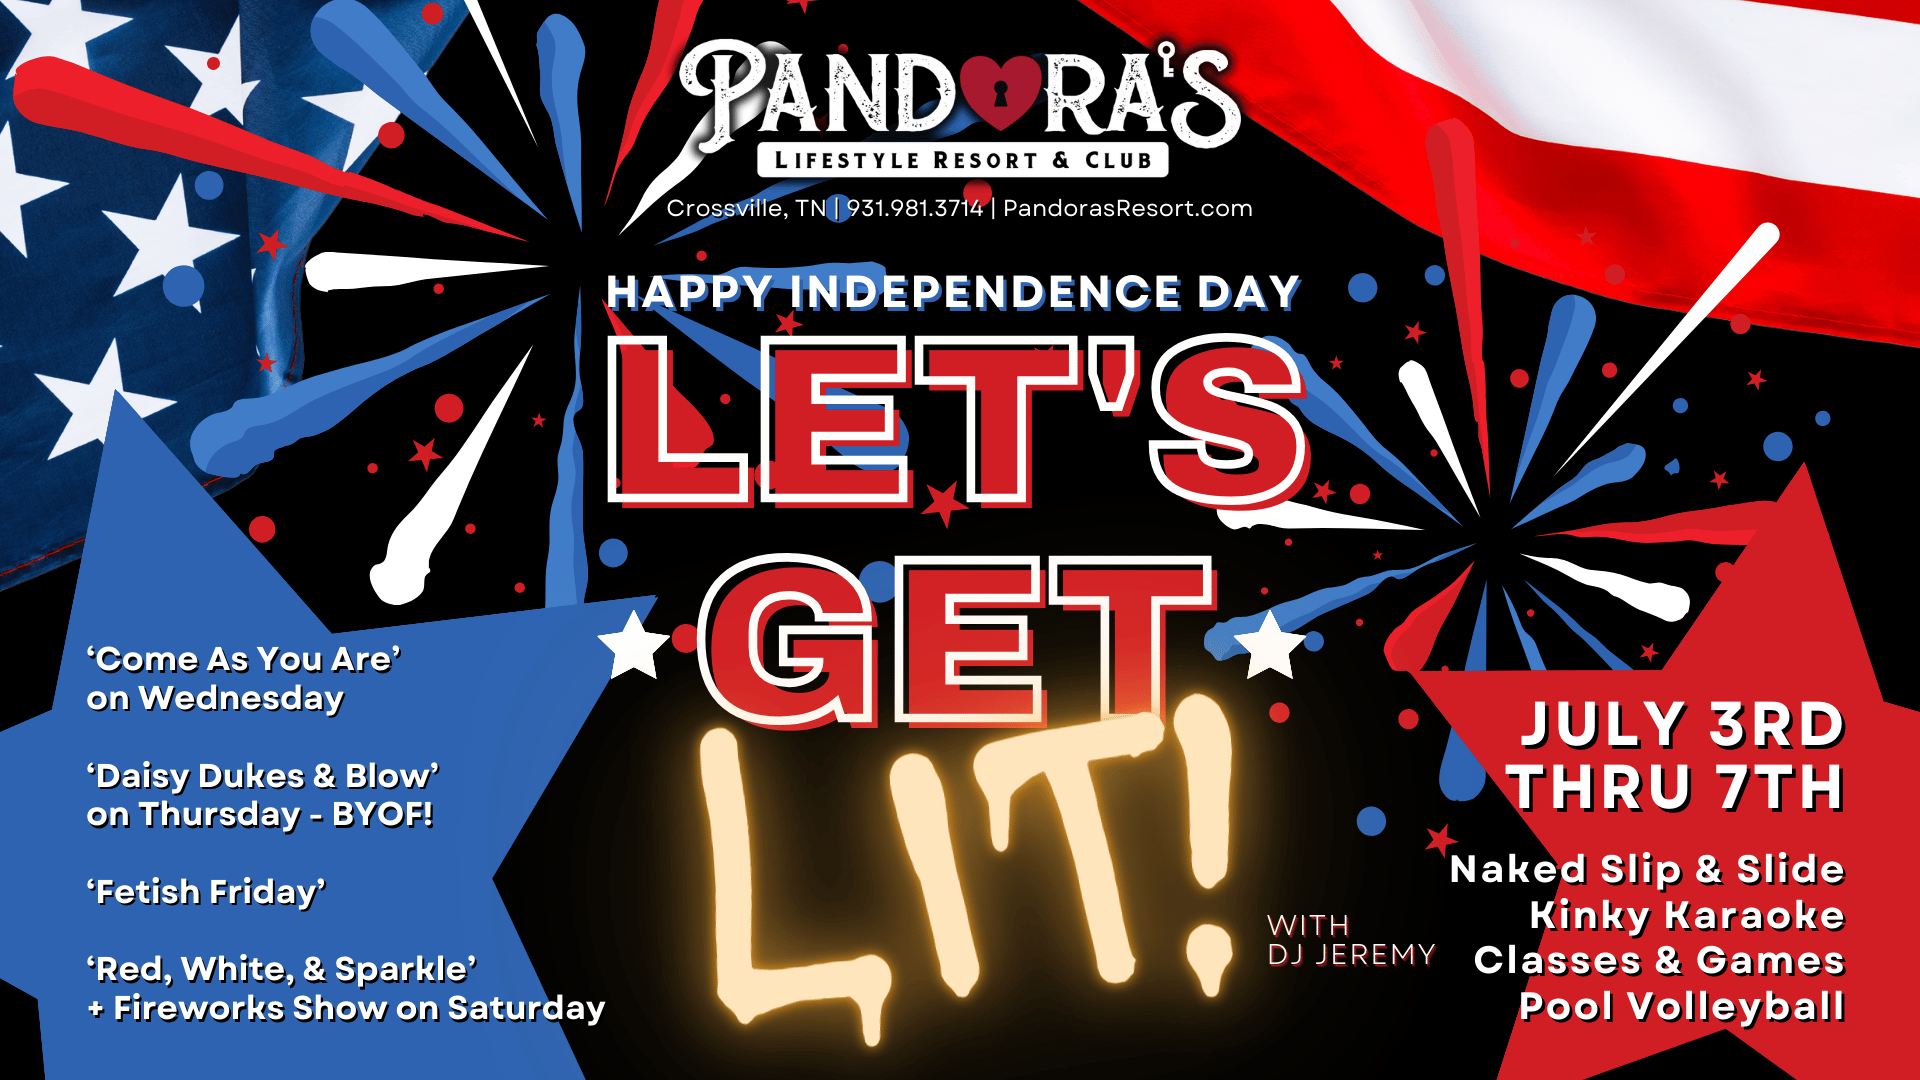
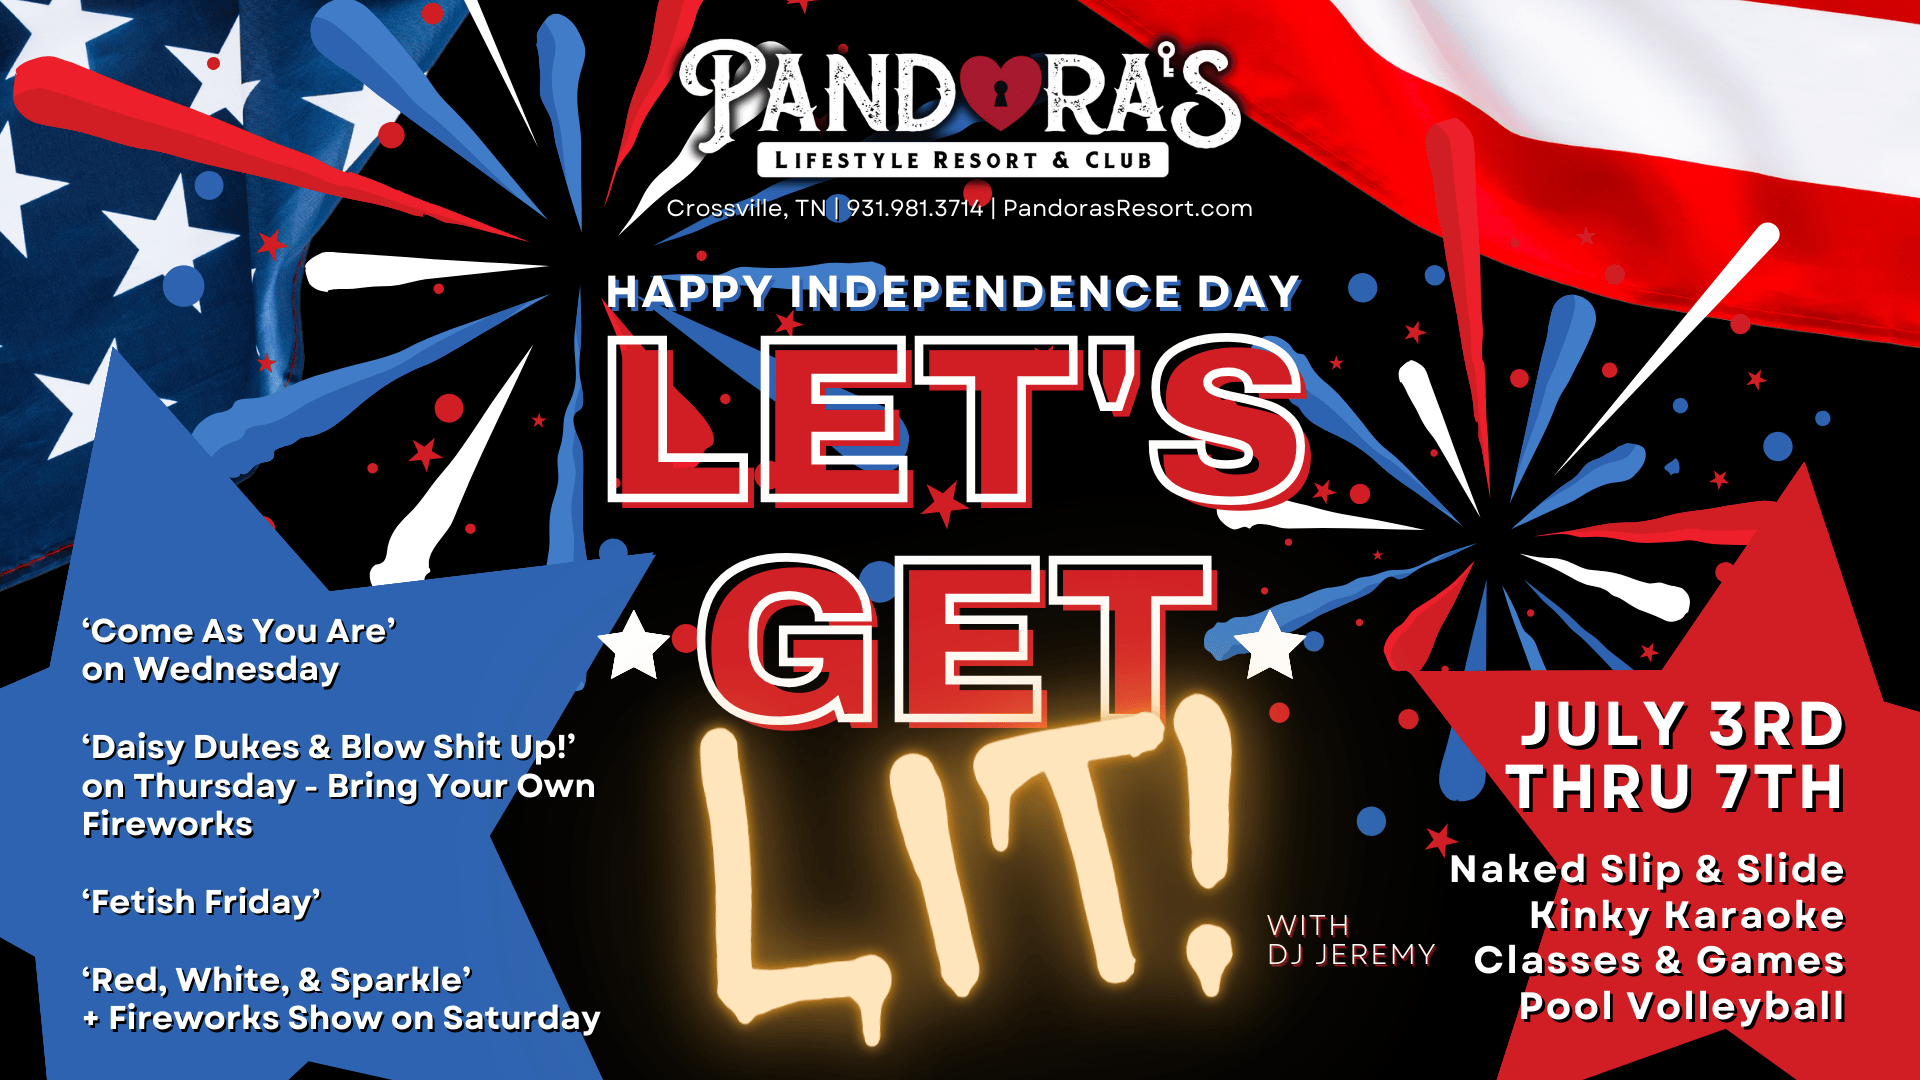
updated flyers

Changed region(s): [[0.0, 0.3361, 0.3438, 0.8861], [0.0, 0.8556, 0.3125, 1.0]]

diff --git a/index.html b/index.html
@@ -299,7 +299,7 @@
             3 Day Special&nbsp;&nbsp;&bull;&nbsp;&nbsp;Mon thru Wed Cabin & Daily Membership for $300!
             </pre>
          </div>
-         <link-button slot="footer" href="tel:931-981-3714">Reservations</link-button>
+         <link-button slot="footer" href="tel:931-981-3714">Call for Reservations</link-button>
       </bright-card>
    </bright-section>
 
@@ -307,7 +307,7 @@
       <div>
          <h2>Recurring Weekly Events</h2>
          <pre>
-            <b>Wednesdays</b> - Newbie Night (1/2 price day fee)
+            <b>Thursdays</b> -  Thursty Thursday - Newbie Night (1/2 price day fee)
             <b>Fridays</b> - 8pm Themed Dance Party
             <b>Saturdays</b> - 8pm Themed Dance Party, 9pm BDSM Demo
             &nbsp;
@@ -318,11 +318,15 @@
    <bright-section id="events">
       <h2>Upcoming Events at Pandora's Resort</h2>
       <bright-gallery-scroller item-width="380px" gap="8px">
-         <img src="/images/flyers/Little Black Dress (Presentation).png"/>
-         <img src="/images/flyers/20240622 Mermaids and Pirates (Presentation).png"/>
          <img src="/images/flyers/20240628 Blue Jean Baby Friday Night (Presentation).png"/>
          <img src="/images/flyers/20240629 50s Summer Lovin’ (Presentation).png"/>
          <img src="/images/flyers/20240704 Fourth of July Weekend Let's Get Lit (Presentation).png"/>
+         <img src="/images/flyers/20240705 Karaoke (Presentation).png"/>
+         <img src="/images/flyers/20240705 Fetish Friday (Presentation).png"/>
+         <img src="/images/flyers/20240706 Swing School Classes (Presentation).png"/>
+         <img src="/images/flyers/20240712 Friday Lovely Lingerie (Presentation).png"/>
+         <img src="/images/flyers/20240713 Nothin’ But Net (Presentation).png"/>
+         <img src="/images/flyers/Thirsty Thursdays (Presentation).png"/>
          <img src="/images/flyers/BDSM with King Dave.png"/>
          <img src="/images/flyers/BoudiorPhotography.png"/>
       </bright-gallery-scroller>
@@ -332,15 +336,12 @@
       <div>
          <h2>Upcoming Weekend Themes</h2>
          <pre>
-            <b>Fri June 21</b> - Little Black Dress
-            <b>Sat June 22</b> - Mermaids and Pirates
-
             <b>Fri June 28</b> - Blue Jean Baby
             <b>Sat June 29</b> - 50s Summer Loving Sock Hop
 
-            <b>Thu July 4</b> - Daisy Dukes
+            <b>Thu July 4</b> - Daisy Dukes & Blow Shit Up! - Bring Your Own Fireworks
             <b>Fri July 5</b> - Fetish Friday
-            <b>Sat July 6</b> - Red White and Sparkle
+            <b>Sat July 6</b> - Red White and Sparkle 
             
             <b>Fri July 12</b> - Lovely Ladies in Lingerie
             <b>Sat July 13</b> - Nothin' But Net
